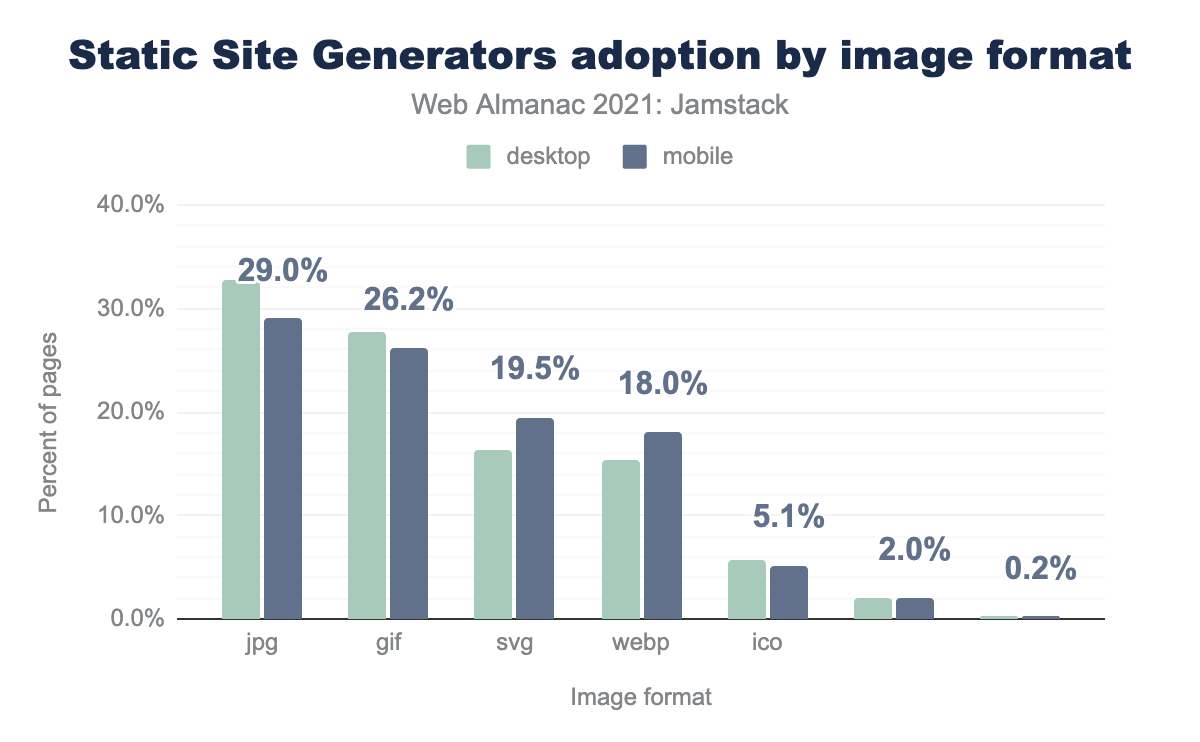
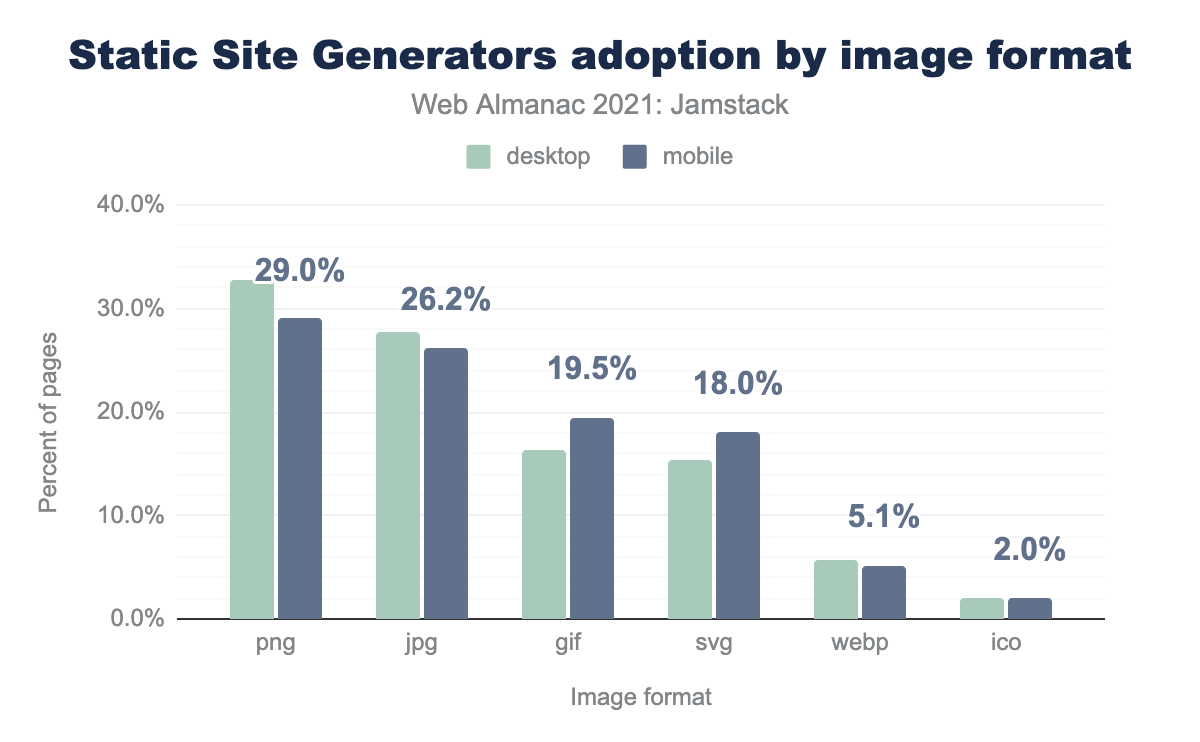
Update missing figure descriptions

Changed region(s): [[0.185, 0.341, 0.8942, 0.8989]]

diff --git a/src/content/en/2021/jamstack.md b/src/content/en/2021/jamstack.md
@@ -302,27 +302,23 @@ The <a hreflang="en" href="https://web.dev/lcp/">Largest Contentful Paint</a> (L
 
 {{ figure_markup(
   image="cwv-lcp.png",
-  caption="Real-user Core Web Vitals LCP",
-  description="Bar chart represents real-user Core Web Vitals LCP",
+  caption="Real-user Core Web Vitals LCP.",
+  description="Bar chart represents real-user Core Web Vitals LCP for the five top measure SSGs. Next.js is 49% for desktop and 25.8% for mobile, Nuxt.js is 44% and 21.7% respectively, Gatsby is 61% and 41.2%, Hugo is 89% and 70.3%, and finally Jekyll is 91% and 76.4%.",
   chart_url="https://docs.google.com/spreadsheets/d/e/2PACX-1vRUiAdcUCSYyS7cQcQlE9uKeMSacgRudtf4pFRkIKKCt8Nw18qOod6TaAUL7tfm8pUbCPKShEN0jJOS/pubchart?oid=950243115&format=interactive",
   sheets_gid="1340534640",
   sql_file="core_web_vitals_passing.sql"
 ) }}
-
-{# TODO - this figure description should be described more #}
 
 Above we see the same results are approved by percent of sites with good LCP experience. The best results show Jekyll and Hugo with 76.4% and 70.3% of mobile sites having a "good" LCP of under 2.5s. The JavaScript based SSGs (Gatsby, Next.js, and Nuxt.js) fair worse.
 
 {{ figure_markup(
   image="LCP-distribution-CDN.png",
   caption="LCP distribution for CDNs",
-  description="Stacked Bar chart represents LCP distribution for CDNs",
+  description="Stacked Bar chart represents LCP distribution for CDNs. Cloudflare is 44.3% for desktop and 23.6% for mobile, AWS is 51.8% and 31.5% respectively, Netlify is 65.0% and 45.3%, Vercel is 60.9% and 39.7%, GitHub is 90.5% and 82.5%, Akamai is 36.4% and 22.0%, Azure is 58.0% and 36.7%.",
   chart_url="https://docs.google.com/spreadsheets/d/e/2PACX-1vRUiAdcUCSYyS7cQcQlE9uKeMSacgRudtf4pFRkIKKCt8Nw18qOod6TaAUL7tfm8pUbCPKShEN0jJOS/pubchart?oid=1326237133&format=interactive",
   sheets_gid="1024061881",
   sql_file="core_web_vitals_distribution.sql"
 ) }}
-
-{# TODO - this figure description should be described more #}
 
 GitHub tops the stats when measuring on CDN level, likely reflecting the simpler sites hosted here. Netlify, a Jamstack-oriented CDN, comes next with 66.8% of sites having a good LCP followed by Vercel with 63.4% followed by AWS  with 59.2% and Cloudflare at 54.2%.
 
@@ -333,26 +329,22 @@ GitHub tops the stats when measuring on CDN level, likely reflecting the simpler
 {{ figure_markup(
   image="cwv-fid.png",
   caption="Real-user Core Web Vitals FID",
-  description="Bar chart represents real-user Core Web Vitals FID.",
+  description="Bar chart represents real-user Core Web Vitals FID for the five top measure SSGs. Next.js is 99.6% for desktop and 88.6% for mobile, Nuxt.js is 99.8% and 92.8% respectively, Gatsby is 99.9% and 96.3%, Hugo is 100.0% and 96.1%, and finally Jekyll is 99.9% and 94.8%..",
   chart_url="https://docs.google.com/spreadsheets/d/e/2PACX-1vRUiAdcUCSYyS7cQcQlE9uKeMSacgRudtf4pFRkIKKCt8Nw18qOod6TaAUL7tfm8pUbCPKShEN0jJOS/pubchart?oid=1366681808&format=interactive",
   sheets_gid="1340534640",
   sql_file="core_web_vitals_passing.sql"
 ) }}
 
-{# TODO - this figure description should be described more #}
-
 On a real user experience, All SSG show great FID results across different SSGs.
 
 {{ figure_markup(
   image="FID-distribution-CDN.png",
-  caption="FID distribution for CDNs",
-  description="Stacked Bar chart represents FID distribution for CDNs",
+  caption="FID distribution for CDNs.",
+  description="Stacked Bar chart represents FID distribution for CDNs. Cloudflare is 99.8% for desktop and 91.7% for mobile, AWS is 99.9% and 95.8% respectively, Netlify is 99.9% and 97.6%, Vercel is 99.7% and 96.6%, GitHub is 100.0% and 96.3%, Akamai is 99.4% and 84.3%, and finally Azure is 100.0% and 95.6%.",
   chart_url="https://docs.google.com/spreadsheets/d/e/2PACX-1vRUiAdcUCSYyS7cQcQlE9uKeMSacgRudtf4pFRkIKKCt8Nw18qOod6TaAUL7tfm8pUbCPKShEN0jJOS/pubchart?oid=1242431240&format=interactive",
   sheets_gid="1024061881",
   sql_file="core_web_vitals_distribution.sql"
 ) }}
-
-{# TODO - this figure description should be described more #}
 
 All CDNs deliver Jamstack sites with 88% good FID or above, though interesting that the Cloudflare and AWS sites fare slightly worse than the Jamstack-orientated CDNs.
 
@@ -362,14 +354,12 @@ All CDNs deliver Jamstack sites with 88% good FID or above, though interesting t
 
 {{ figure_markup(
   image="cwv-cls.png",
-  caption="Real-user Core Web Vitals CLS",
-  description="Bar chart represents real-user Core Web Vitals CLS.",
+  caption="Real-user Core Web Vitals CLS.",
+  description="Bar chart represents real-user Core Web Vitals CLS for the five top measure SSGs. Next.js is 55.8% for desktop and 50.0% for mobile, Nuxt.js is 53.5% and 48.7% respectively, Gatsby is 71.1% and 65.7%, Hugo is 77.7% and 74.2%, and finally Jekyll is 83.7% and 81.1%.",
   chart_url="https://docs.google.com/spreadsheets/d/e/2PACX-1vRUiAdcUCSYyS7cQcQlE9uKeMSacgRudtf4pFRkIKKCt8Nw18qOod6TaAUL7tfm8pUbCPKShEN0jJOS/pubchart?oid=440775226&format=interactive",
   sheets_gid="1340534640",
   sql_file="core_web_vitals_passing.sql"
 ) }}
-
-{# TODO - this figure description should be described more #}
 
 Again, Jekyll shows great performance here. 81.1% of mobile are good results. Followed by Hugo at 74.2%, Gatsby at 65.7%, Next.js at 50.0%, and Nuxt.js trailing the pack at 48.7%.
 
@@ -378,13 +368,11 @@ Here's the same results as with previously for CDNs. GitHub, Netlify, Vercel.
 {{ figure_markup(
   image="CLS-distribution-CDN.png",
   caption="CLS distribution for CDNs",
-  description="Stacked Bar chart represents CLS distribution for CDNs",
+  description="Stacked Bar chart represents CLS distribution for CDNs. Cloudflare is 52.6% and 46.8% for mobile, AWS is 62.6% for desktop and 59.2%, Netlify is 74.1% and 68.3% respectively, Vercel is 65.9% and 62.4%, GitHub is 84.0% and 82.7%, Akamai is 49.6% and 44.8%, and finally  Azure is 62.6% and 59.7%.",
   chart_url="https://docs.google.com/spreadsheets/d/e/2PACX-1vRUiAdcUCSYyS7cQcQlE9uKeMSacgRudtf4pFRkIKKCt8Nw18qOod6TaAUL7tfm8pUbCPKShEN0jJOS/pubchart?oid=692647280&format=interactive",
   sheets_gid="1024061881",
   sql_file="core_web_vitals_distribution.sql"
 ) }}
-
-{# TODO - this figure description should be described more #}
 
 In general CWV results reflect Lighthouse results. Huge and Jekyll have better real user performance data. We can't detect how complicated sites were built with these SSGs. We can bet that with modern SSGs like Next.js, Nuxt.js, Gatsby there are a lot of JavaScript delivered, more data to render including images. Hence, it affects performance results. Nevertheless, an interesting correlation between GitHub and Jekyll, which in tandem shows great results.
 
@@ -396,14 +384,12 @@ Let's dive into resource weights between top fives SSGs to understand their infl
 
 {{ figure_markup(
   image="median-page-weight.png",
-  caption="Median page weight",
-  description="Bar chart represents median page weights",
+  caption="Median page weight.",
+  description="Bar chart represents median page weights for the top 5 measured SSGs. Next.js is 2,161 for desktop and 1,838 KB for mobile, Nuxt.js is 2,481 and 2,000 respectively, Gatsby is 1,824 and 1,739, Hugo is 855 and 1,025, and finally Jekyll is 612 and 753.",
   chart_url="https://docs.google.com/spreadsheets/d/e/2PACX-1vRUiAdcUCSYyS7cQcQlE9uKeMSacgRudtf4pFRkIKKCt8Nw18qOod6TaAUL7tfm8pUbCPKShEN0jJOS/pubchart?oid=632409641&format=interactive",
   sheets_gid="984097158",
   sql_file="resource_weights.sql"
 ) }}
-
-{# TODO - this figure description should be described more #}
 
 JavaScript based SSGs have almost 2 times larger amount of resources than Hugo and Jekyll. The top one is ~2 MB for Nuxt.js, followed by Next.js and Gatsby with almost 1.8 MB and 1.7 MB.
 
@@ -413,14 +399,12 @@ As we mentioned above, JavaScript-based SSGs include JavaScript frameworks out o
 
 {{ figure_markup(
   image="median-js-weight.png",
-  caption="Median JavaScript weight",
-  description="Bar chart represents median JavaScript weights",
+  caption="Median JavaScript weight.",
+  description="Bar chart represents median JavaScript weights for the top 5 measured SSGs. Next.js is 75 for desktop and 746 for mobile, Nuxt.js is 70 and 713 respectively, Gatsby is 67 and 645, Hugo is 15 and 177, and finally Jekyll is 10 and 129.",
   chart_url="https://docs.google.com/spreadsheets/d/e/2PACX-1vRUiAdcUCSYyS7cQcQlE9uKeMSacgRudtf4pFRkIKKCt8Nw18qOod6TaAUL7tfm8pUbCPKShEN0jJOS/pubchart?oid=727314511&format=interactive",
   sheets_gid="984097158",
   sql_file="resource_weights.sql"
 ) }}
-
-{# TODO - this figure description should be described more #}
 
 A big chunk of resources are for JavaScript. Again, for JavaScript-based SSGs it's a much bigger compared to others - around 700 KB compared to around 150 KB for non-JavaScript based SSGs. While this is not surprising, it's interesting to see the actual differences laid out in this way. Next.js based sites use more JavaScript than others. Hugo and Jekyll developers on other hand seem to be using JavaScript more responsibly and keeping their bundles tight. Another reason for that might be site complexity. Hugo and Jekyll sites are not represented as much in top ranking sites, so they might have simpler use cases than, for example, Next.js sites which do appear more often in the top ranking sites.
 
@@ -429,13 +413,11 @@ We analyzed which third party libraries were used among SSGs. We excluded React 
 {{ figure_markup(
   image="3rd-party-libs-distribution-over-ssgs.png",
   caption="JavaScript 3rd parties distribution over SSGs",
-  description="Stacked Bar chart represents JavaScript 3rd parties distribution over SSGs",
+  description="Stacked Bar chart represents JavaScript 3rd parties distribution over SSGs. Gatsby uses styled-components most (9.5% jQuery, 33.8%  style-compents, 10.3% Lodash, 7.0% Polyfill, 1.8% MobX), Hugo uses jQuery predominantly (63.0%, 1.4%, 4.2%, 1.2%, 2.6% respectively), Jekyll is the same (61.2%, 0.8%, 1.0%, 0.8%, 1.5%), Next.js uses style-components most (5.6%, 20.4%, 9.6%, 2.7%, 2.2%), and finally Nuxt.js doesn't use external libraries much (3.8%, 0.3%, 4.8%, 2.0%, 0.1%).",
   chart_url="https://docs.google.com/spreadsheets/d/e/2PACX-1vRUiAdcUCSYyS7cQcQlE9uKeMSacgRudtf4pFRkIKKCt8Nw18qOod6TaAUL7tfm8pUbCPKShEN0jJOS/pubchart?oid=972731684&format=interactive",
   sheets_gid="1291311330",
   sql_file="framework_libraries.sql"
 ) }}
-
-{# TODO - this figure description should be described more #}
 
 A big surprise for us was jQuery. It wasn't a surprise that it's used for Hugo and Jekyll based sites (more than 60%), but that it's used inside React and Vue based sites wasn't expected! Next.js, Many Nuxt,js, and Gatsby sites use jQuery too.
 
@@ -447,14 +429,12 @@ Lodash is heavily used and was present among all SSGs up to 10% for Gatsby.
 
 {{ figure_markup(
   image="median-css-weight.png",
-  caption="Median CSS weight",
-  description="Bar chart represents median CSS weights",
+  caption="Median CSS weight.",
+  description="Bar chart represents median CSS weights for the top 5 measured SSGs. Next.js is 2 for desktop and 14 for mobile, Nuxt.js is 1 and 17 respectively, Gatsby is  and 1, Hugo is 2 and 29, and finally Jekyll is 1 and 23.",
   chart_url="https://docs.google.com/spreadsheets/d/e/2PACX-1vRUiAdcUCSYyS7cQcQlE9uKeMSacgRudtf4pFRkIKKCt8Nw18qOod6TaAUL7tfm8pUbCPKShEN0jJOS/pubchart?oid=1274478265&format=interactive",
   sheets_gid="984097158",
   sql_file="resource_weights.sql"
 ) }}
-
-{# TODO - this figure description should be described more #}
 
 On the other hand, CSS is slightly heavier than Hugo and Jekyll.
 Since of the benefits of styled-components is clean, non-repetitive CSS, this could explain why CSS size for these JavaScript SSGs are lower. One more hypothesis is that old fashioned SSGs use old fashion methods for handling interactions and animations using CSS. JavaScript-based SSGs use more JavaScript in general, hence they might more often be used to replace functionality that could be implemented with CSS.
@@ -465,14 +445,12 @@ Images weights distributed differently. There's no correlation between SSG group
 
 {{ figure_markup(
   image="median-image-weight.png",
-  caption="Median image weight",
-  description="Bar chart represents median image weights",
+  caption="Median image weight.",
+  description="Bar chart represents median image weights for the top 5 measured SSGs. Next.js is 62 for desktop and 465 for mobile, Nuxt.js is 89 and 645 respectively, Gatsby is 45 and 454, Hugo is 30 and 522, and finally Jekyll is 17 and 295.",
   chart_url="https://docs.google.com/spreadsheets/d/e/2PACX-1vRUiAdcUCSYyS7cQcQlE9uKeMSacgRudtf4pFRkIKKCt8Nw18qOod6TaAUL7tfm8pUbCPKShEN0jJOS/pubchart?oid=707866311&format=interactive",
   sheets_gid="984097158",
   sql_file="resource_weights.sql"
 ) }}
-
-{# TODO - this figure description should be described more #}
 
 Nuxt.js has the highest value at 645 KB. Hugo is next with 522 KN. Next.js and Gatsby are almost the same at 465 KB and 545 KB respectively. Jekyll has the lowest value at 295 KB.
 
@@ -483,17 +461,15 @@ Images are one of the bottlenecks of good User Experience (UX). If they are larg
 {{ figure_markup(
   image="image-adoption.png",
   caption="Adoption of image format",
-  description="Bar chart represents adoption of image format",
+  description="Bar chart represents adoption of image format usage for SSG pages. `png` is 32.7% on desktop and 29.0% on mobile, `jpg` is 27.7% and 26.2% respectivelty, `gif` is 16.2% and 19.5%, `svg` is 15.3% and 18.0%, `webp` is 5.8% and 5.1%, and finally `ico` is 2.1% and 2.0%.",
   chart_url="https://docs.google.com/spreadsheets/d/e/2PACX-1vRUiAdcUCSYyS7cQcQlE9uKeMSacgRudtf4pFRkIKKCt8Nw18qOod6TaAUL7tfm8pUbCPKShEN0jJOS/pubchart?oid=470820948&format=interactive",
   sheets_gid="626634977",
   sql_file="adoption_of_image_formats_in_ssgs.sql"
 ) }}
 
-{# TODO - this figure description should be described more #}
-
 As one of the newer generation of image formats, <a hreflang="en" href="https://developers.google.com/speed/webp/">WebP</a> has 18.0% of usage among Jamstack sites. Compared to [last year's results](../2020/jamstack#image-formats), when WebP had only 3%, we can say it's a great improvement over one year.
 
-Still, the most used is JPEG at 29.0% and GIF at 26.2%. SVG is used on 19.5% of webpages.
+Still, the most used is PNG at 29.0% and JPEG at 26.2%, GIF at 19.5%, and SVG is used on 18.0% of webpages.
 
 ### What the resources tells us
 
